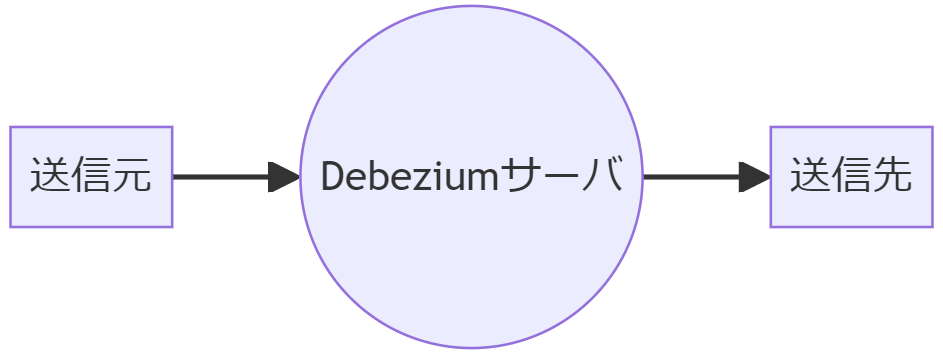
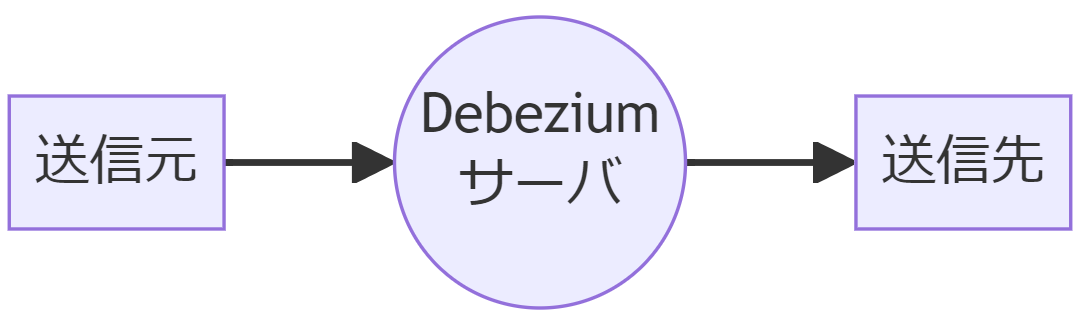
adj links

diff --git a/mermeid.md b/mermeid.md
@@ -14,6 +14,6 @@ flowchart LR
 
 ```mermaid
 flowchart LR
-    Producer["送信元"] --> Debezium((Debeziumサーバ))
+    Producer["送信元"] --> Debezium((Debezium</br>サーバ))
     Debezium --> Consumer["送信先"]
-```
+    ```
